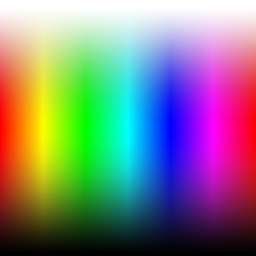
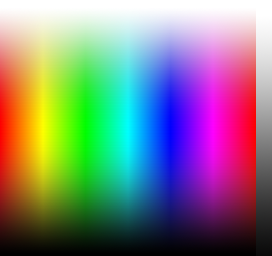
sstart: add monochrome to colorpicker

diff --git a/chrome/content/properties.js b/chrome/content/properties.js
@@ -113,7 +113,7 @@ justoff.sstart.SStartPropertiesXul = new function () {
 		var title = Dom.get("labelPage").label + ", " + Dom.get("labelBgColor").value;
 		var param = { doc: document, tbox: "bgColor", element: self.body, attr: "backgroundColor", title: title };
 		self.cpicker = openDialog("chrome://sstart/content/colorpicker.xul", "sstart-colorpicker-window",
-			SStart.getDialogFeatures(290, 300, window.screenX + window.outerWidth, window.screenY, false), param);
+			SStart.getDialogFeatures(300, 300, window.screenX + window.outerWidth, window.screenY, false), param);
 	}
 
 	this.updateHeaderTColor = function () {
@@ -125,7 +125,7 @@ justoff.sstart.SStartPropertiesXul = new function () {
 		var title = Dom.get("labelHeader").label + ", " + Dom.get("labelTitleColor").value;
 		var param = { doc: document, tbox: "titleColor", element: self.sSheet.cssRules[11], attr: "color", title: title };
 		self.cpicker = openDialog("chrome://sstart/content/colorpicker.xul", "sstart-colorpicker-window",
-			SStart.getDialogFeatures(290, 300, window.screenX + window.outerWidth, window.screenY, false), param);
+			SStart.getDialogFeatures(300, 300, window.screenX + window.outerWidth, window.screenY, false), param);
 	}
 
 	this.updateHeaderBgColor = function () {
@@ -138,7 +138,7 @@ justoff.sstart.SStartPropertiesXul = new function () {
 		var title = Dom.get("labelHeader").label + ", " + Dom.get("labelHeaderColor").value;
 		var param = { doc: document, tbox: "headerColor", element: self.sSheet.cssRules[6], attr: "background", title: title };
 		self.cpicker = openDialog("chrome://sstart/content/colorpicker.xul", "sstart-colorpicker-window",
-			SStart.getDialogFeatures(290, 300, window.screenX + window.outerWidth, window.screenY, false), param);
+			SStart.getDialogFeatures(300, 300, window.screenX + window.outerWidth, window.screenY, false), param);
 	}
 
 	this.initialize = function () {

diff --git a/chrome/content/colorpicker.js b/chrome/content/colorpicker.js
@@ -32,14 +32,14 @@ justoff.sstart.SStartColorpickerXul = new function () {
 
 		function pickColor (e) {
 			var mousePos = getPos(canvas, e);
-			if (mouseDown && mousePos !== null && mousePos.x > 0 && mousePos.x < 256 && mousePos.y > 0 && mousePos.y < 256) {
-				var imageData = context.getImageData(0, 0, 256, 256);
+			if (mouseDown && mousePos !== null && mousePos.x > 0 && mousePos.x < 272 && mousePos.y > 0 && mousePos.y < 256) {
+				var imageData = context.getImageData(0, 0, 272, 256);
 				var data = imageData.data;
 				var x = mousePos.x - 0;
 				var y = mousePos.y - 0;
-				var red = data[((256 * y) + x) * 4];
-				var green = data[((256 * y) + x) * 4 + 1];
-				var blue = data[((256 * y) + x) * 4 + 2];
+				var red = data[((272 * y) + x) * 4];
+				var green = data[((272 * y) + x) * 4 + 1];
+				var blue = data[((272 * y) + x) * 4 + 2];
 				var color = '#' + toHex(red) + toHex(green) + toHex(blue);
 				if (Colorpicker.element) {
 					Colorpicker.element.style[Colorpicker.attr] = color;

diff --git a/chrome/content/thumbprops.js b/chrome/content/thumbprops.js
@@ -17,7 +17,7 @@ justoff.sstart.ThumbnailPropertiesXul = new function () {
 		var title = Dom.get("labelBgColor").value;
 		var param = { doc: document, tbox: "bgColor", element: self.view, attr: "background", title: title };
 		self.cpicker = openDialog("chrome://sstart/content/colorpicker.xul", "sstart-colorpicker-window",
-			SStart.getDialogFeatures(290, 300, window.screenX + window.outerWidth, window.screenY, false), param);
+			SStart.getDialogFeatures(300, 300, window.screenX + window.outerWidth, window.screenY, false), param);
 	}
 
 	this.initialize = function () {
